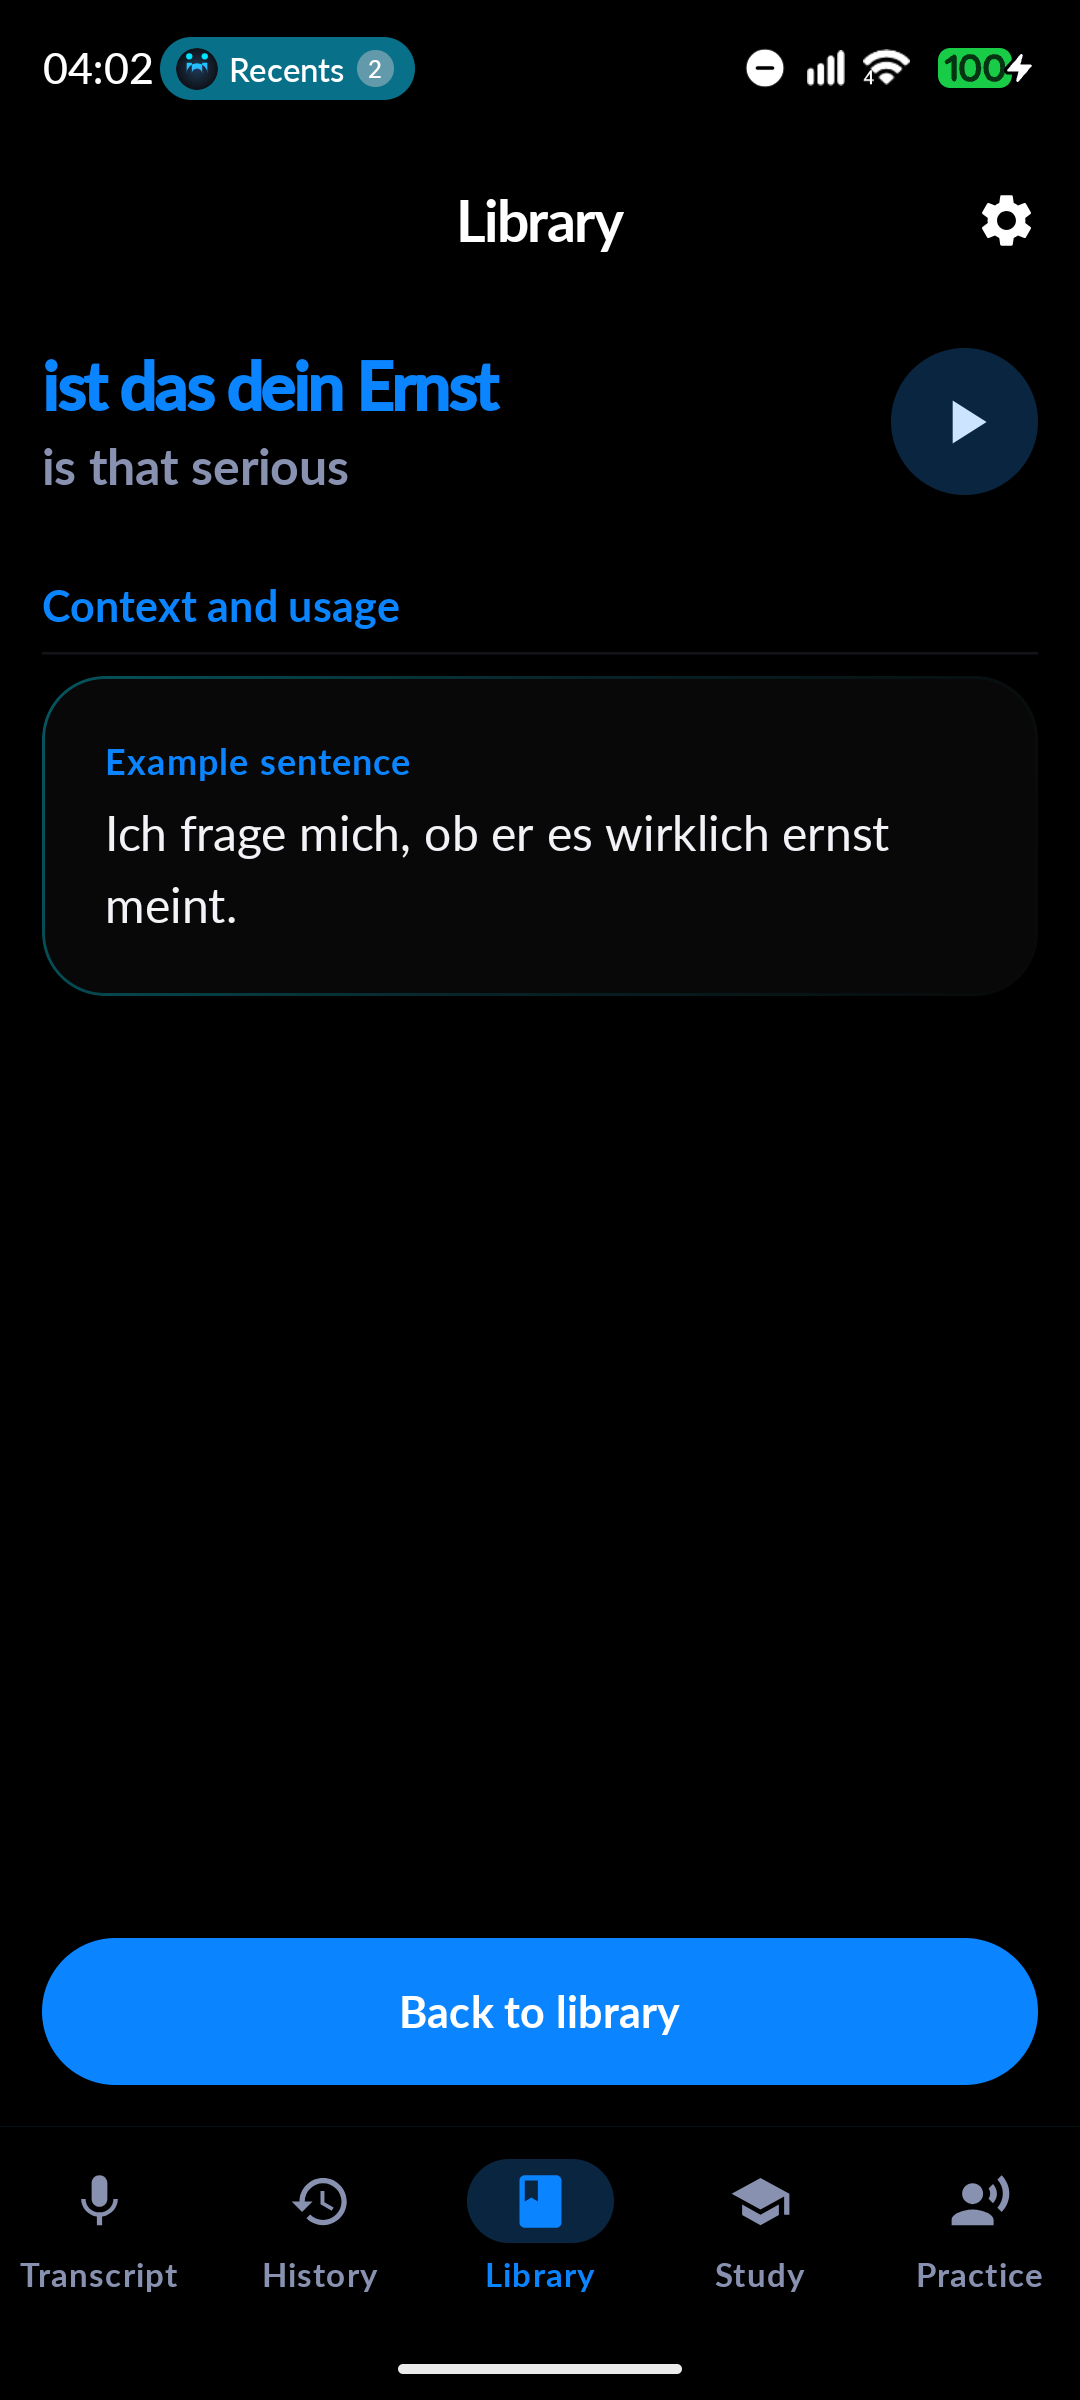
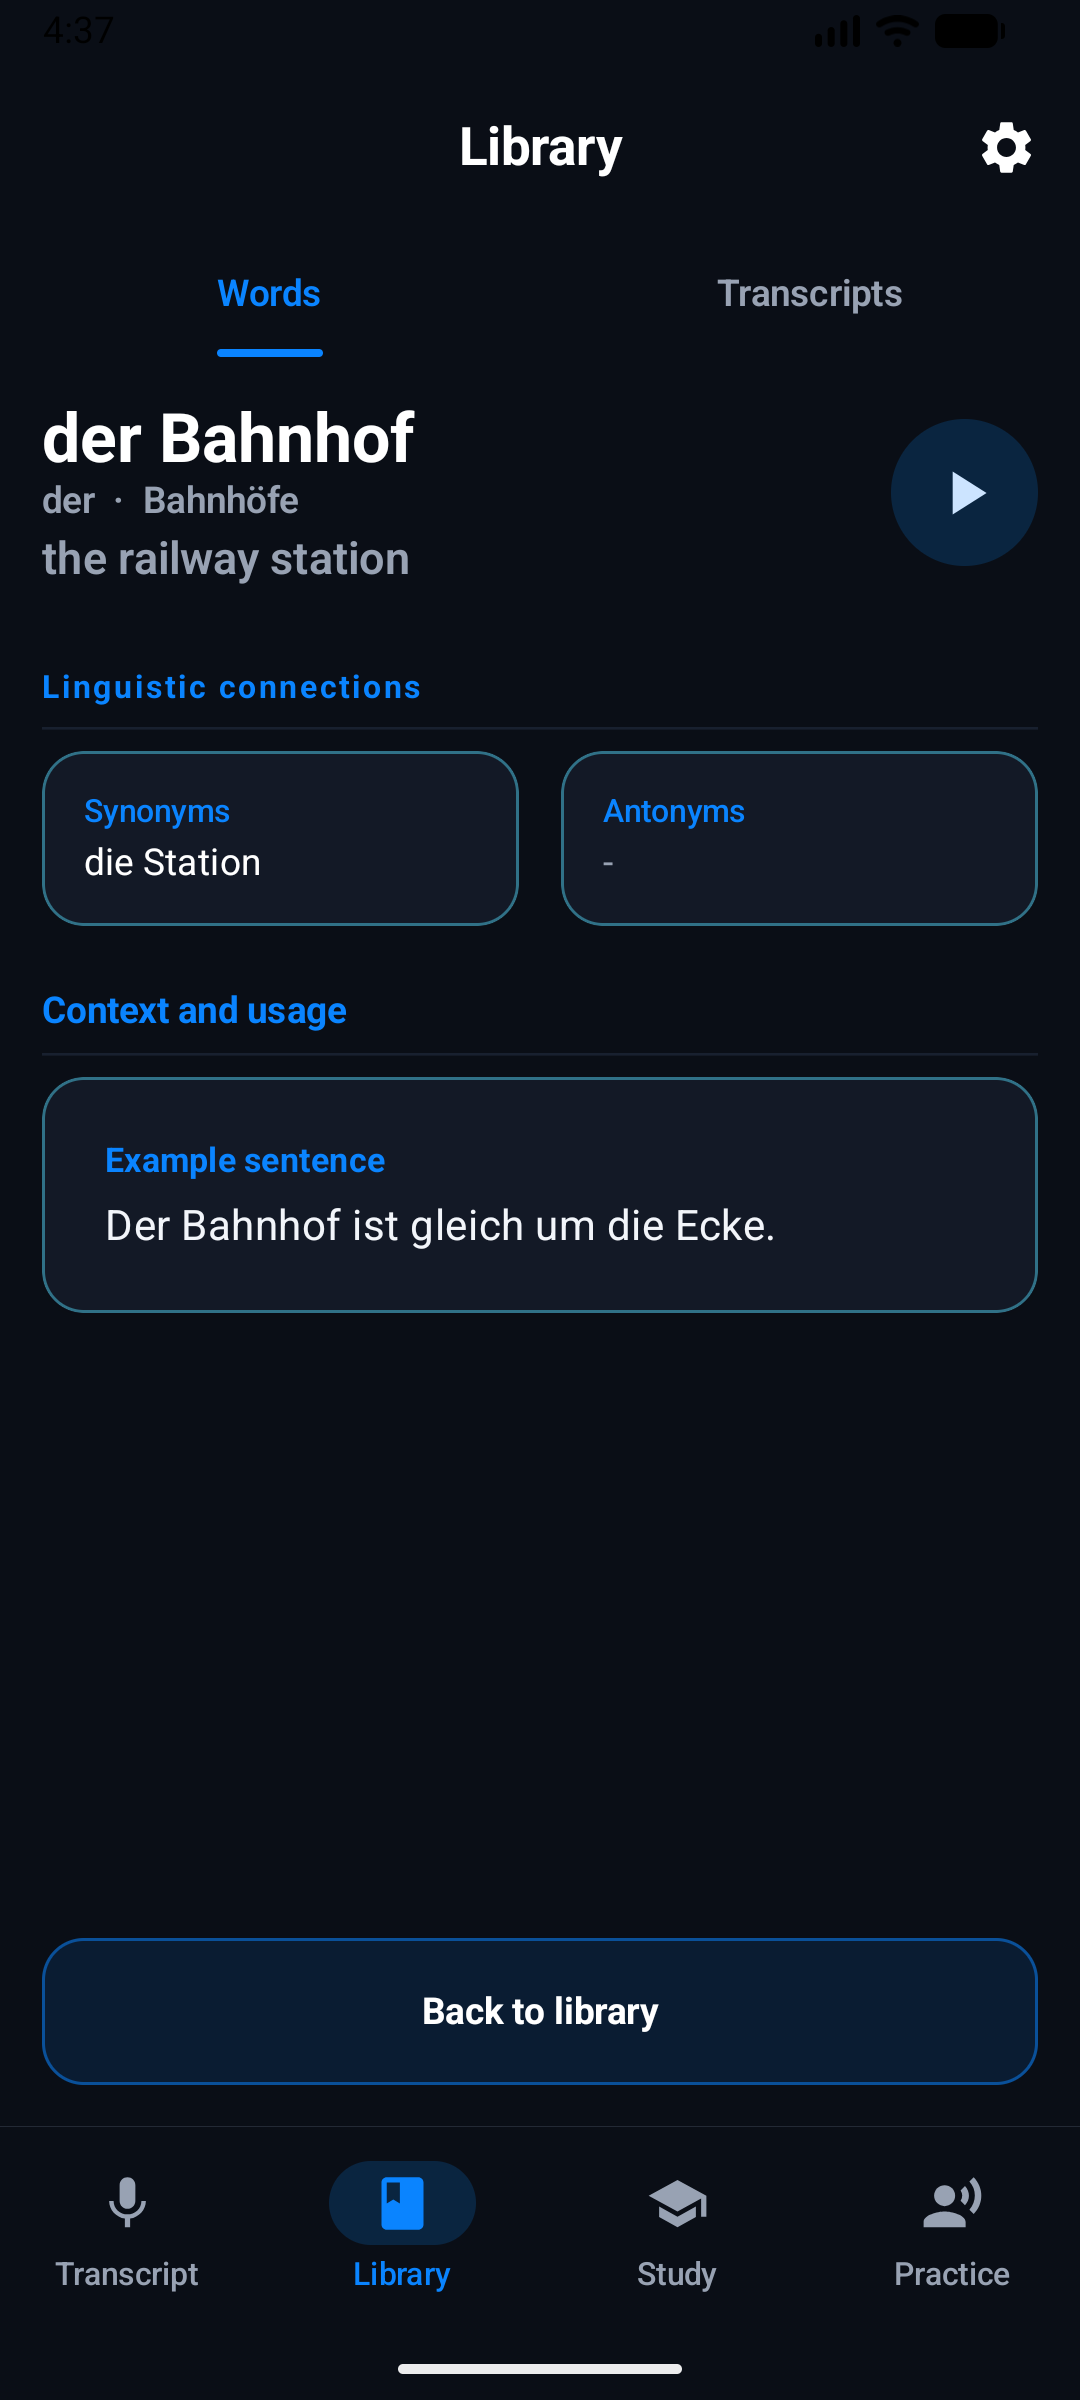
Retake the screenshots against the current app
The old set showed the five-tab layout, the pre-fix surfaces where a card had no
visible edge, and a Study tab that was still shuffled flashcards. Eight are
replaced and a dashboard shot added, so the images and the captions finally
describe the same app.

Captured on a wiped emulator seeded with sample vocabulary - a station, an
exercise, a bill - rather than on a real device. The screenshots for a public
README should not be someone's actual speech, and this way there is nothing to
scrub afterwards.

diff --git a/README.md b/README.md
@@ -48,10 +48,12 @@ Four tabs — one per verb: **speak**, **keep**, **recall**, **produce**.
 | ![Transcript](docs/screenshots/01-transcript.png) | ![Library](docs/screenshots/03-library.png) |
 | **Library · Transcripts** — every session, grouped by day, swipe to delete with an undo. | **Word detail** — article, plural, conjugation, synonyms and antonyms for a single word. |
 | ![History](docs/screenshots/02-history.png) | ![Word detail](docs/screenshots/04-word-detail.png) |
-| **Study · Flashcards** — spaced repetition, graded *Again / Hard / Good / Easy*. The second pane is a dashboard: daily goal, streak, retention split and a three-month heatmap. | **Practice · Repetition** — repeat a sentence and get word-by-word scoring. The second pane is Roleplay, a short spoken exchange with an English gloss. |
-| ![Study](docs/screenshots/05-study.png) | ![Practice](docs/screenshots/06-practice.png) |
-| **Settings** — API key, recognition dialect, statistics and privacy controls. | |
-| ![Settings](docs/screenshots/07-settings.png) | |
+| **Study · Flashcards** — spaced repetition, graded *Again / Hard / Good / Easy*. | **Study · Dashboard** — daily goal, streak, the retention split, and three months of activity. |
+| ![Study](docs/screenshots/05-study.png) | ![Dashboard](docs/screenshots/10-dashboard.png) |
+| **Practice · Repetition** — repeat a sentence and get word-by-word scoring. The second pane is Roleplay, a short spoken exchange with an English gloss. | **Settings** — API key, recognition dialect, statistics and privacy controls. |
+| ![Practice](docs/screenshots/06-practice.png) | ![Settings](docs/screenshots/07-settings.png) |
+
+<sub>Screenshots use sample vocabulary rather than real recordings.</sub>
 
 <p align="center">
   <img src="docs/screenshots/09-widget-picker.png" alt="The daily word widget in the system picker" width="270">
